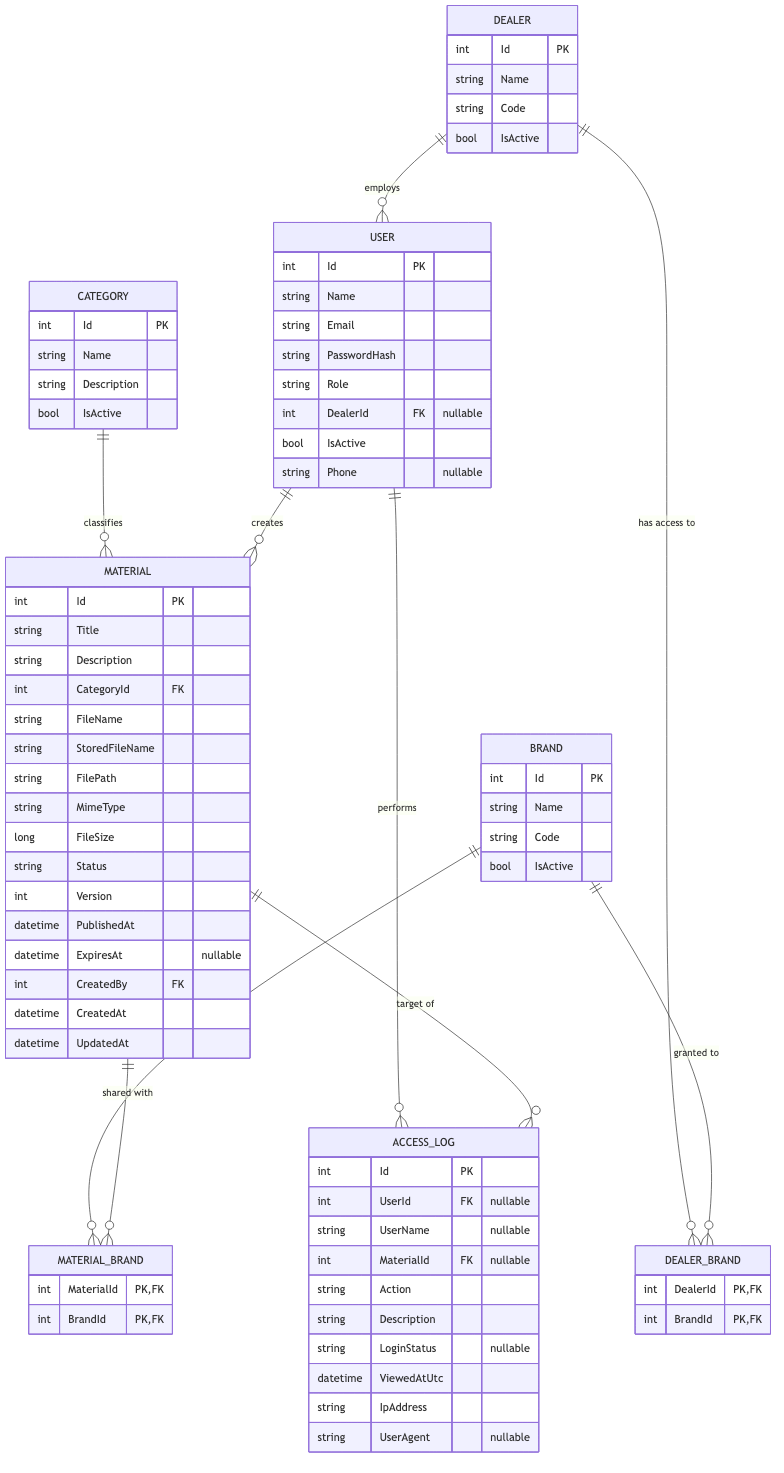
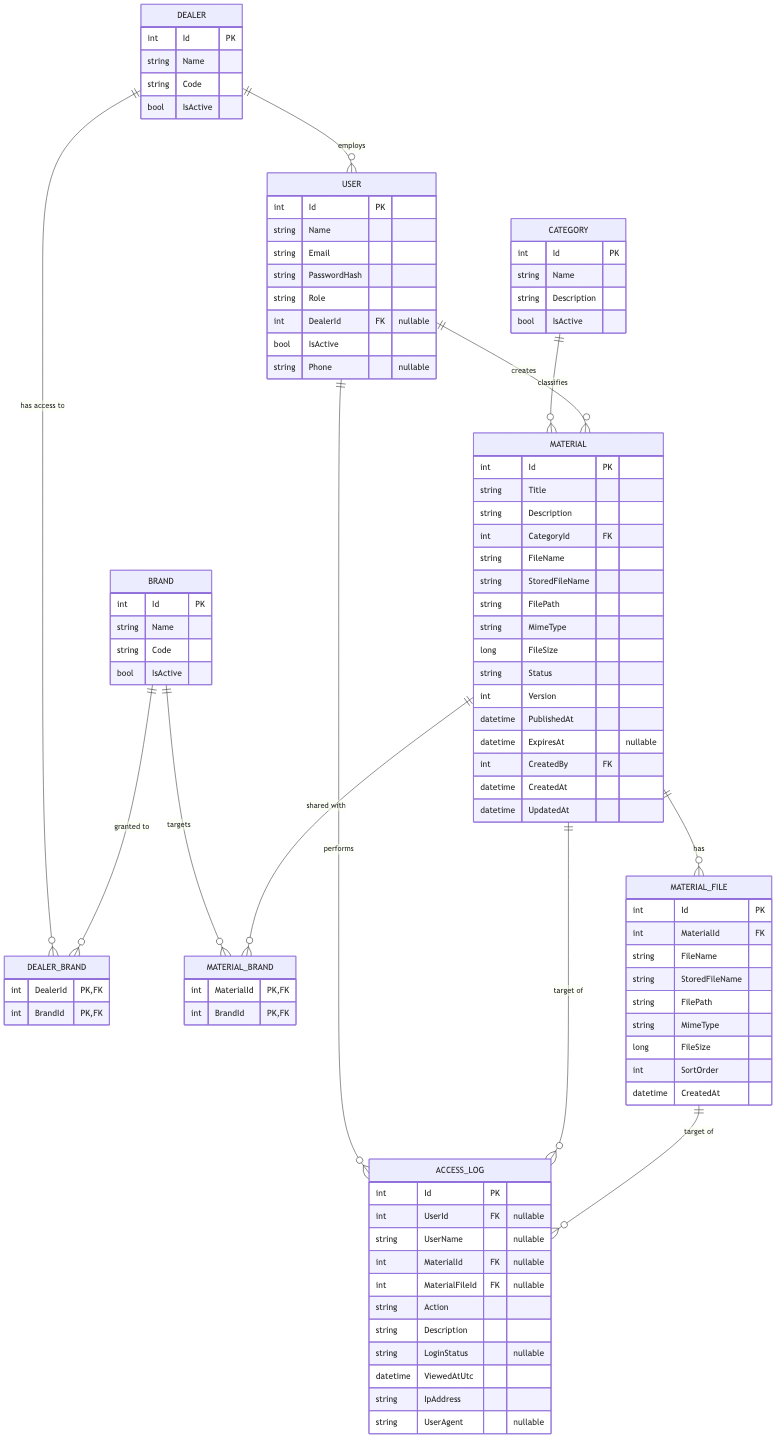
ER diagram update
degistirilen database e gore ER diagram guncellendi

diff --git a/docs/er-diagram.md b/docs/er-diagram.md
@@ -1,8 +1,8 @@
 # ER Diyagramı
 
 `backend/src/BayiPortal.Core/Entities/*.cs` içindeki gerçek entity/ilişki tanımlarından
-çıkarıldı (2026-07-21). `README.md`'deki kavramsal veri modeliyle küçük farklar olabilir —
-buradaki diyagram kod ile birebir eşleşir.
+çıkarıldı (2026-07-22, `MaterialFile` eklendi). `README.md`'deki kavramsal veri modeliyle
+küçük farklar olabilir — buradaki diyagram kod ile birebir eşleşir.
 
 ![ER Diyagramı](er-diagram.png)
 
@@ -18,8 +18,10 @@ erDiagram
     CATEGORY ||--o{ MATERIAL : "classifies"
     USER ||--o{ MATERIAL : "creates"
     MATERIAL ||--o{ MATERIAL_BRAND : "shared with"
+    MATERIAL ||--o{ MATERIAL_FILE : "has"
     USER ||--o{ ACCESS_LOG : "performs"
     MATERIAL ||--o{ ACCESS_LOG : "target of"
+    MATERIAL_FILE ||--o{ ACCESS_LOG : "target of"
 
     DEALER {
         int Id PK
@@ -82,11 +84,24 @@ erDiagram
         int BrandId PK,FK
     }
 
+    MATERIAL_FILE {
+        int Id PK
+        int MaterialId FK
+        string FileName
+        string StoredFileName
+        string FilePath
+        string MimeType
+        long FileSize
+        int SortOrder
+        datetime CreatedAt
+    }
+
     ACCESS_LOG {
         int Id PK
         int UserId FK "nullable"
         string UserName "nullable"
         int MaterialId FK "nullable"
+        int MaterialFileId FK "nullable"
         string Action
         string Description
         string LoginStatus "nullable"
@@ -111,3 +126,12 @@ erDiagram
   `UpdateAsync`'te `+1` artırılır (bkz. `feature-backend-dokuman-goruntulenme-sayaci`,
   PR #17).
 - `User.Phone` (nullable), `AddPhoneToUsers` migration'ı ile eklendi.
+- `MATERIAL_FILE`, `AddMaterialFiles` migration'ı ile eklendi (bir materyal artık birden
+  fazla dosyaya sahip olabilir). `MATERIAL`'in eski tekil dosya kolonları
+  (`FileName`/`StoredFileName`/`FilePath`/`MimeType`/`FileSize`) geriye dönük uyumluluk
+  için kasıtlı olarak korundu ve migration'daki backfill ile mevcut materyallerin dosyası
+  birer `MATERIAL_FILE` satırına kopyalandı — "ilk dosya" özeti olarak dolu kalmaya devam
+  ediyorlar, kaynak artık `MATERIAL_FILE`.
+- `ACCESS_LOG.MaterialFileId` (nullable FK, `SetNull`), aynı migration'la eklendi; hangi
+  dosyanın görüntülendiğini/indirildiğini materyal-geneli değil dosya bazında izlemeyi
+  sağlar. Geçmiş loglarda bu alan `NULL` kalır (geriye dönük eşleme yapılmadı).